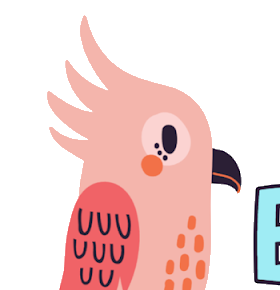
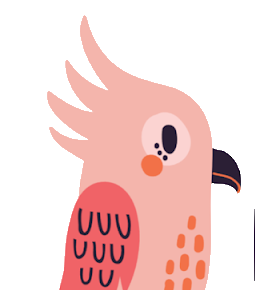
Fix bird stray pixels; remove gold text from footer brand row

Changed region(s): [[0.1647, 0.031, 1.0, 1.0]]

diff --git a/cotizaciones/quote.js b/cotizaciones/quote.js
@@ -393,7 +393,6 @@ function renderFooter(q) {
       </div>
       <div class="quote-footer-brand">
         <img src="../images/logo-icono.svg" alt="Coordenada Viajes" style="height:80px;width:auto;">
-        <span class="quote-footer-contact">Coordenada Viajes · Ciudad de México</span>
         <a href="https://www.eurekawebsites.tech/" target="_blank" rel="noopener noreferrer" class="quote-footer-powered">
           <span>Powered by</span>
           <img src="../images/eureka-websites/eureka-bird-head.png" alt="Eureka Websites" class="footer-powered-bird">

diff --git a/cotizaciones/quote.css b/cotizaciones/quote.css
@@ -584,10 +584,9 @@ h1, h2, h3, h4, h5 {
   grid-column: 1 / -1;
   border-top: 1px solid rgba(245,240,232,0.15);
   padding-top: 24px;
-  display: grid;
-  grid-template-columns: auto 1fr auto;
+  display: flex;
   align-items: center;
-  gap: 16px;
+  justify-content: space-between;
 }
 
 .quote-footer-brand-name {
